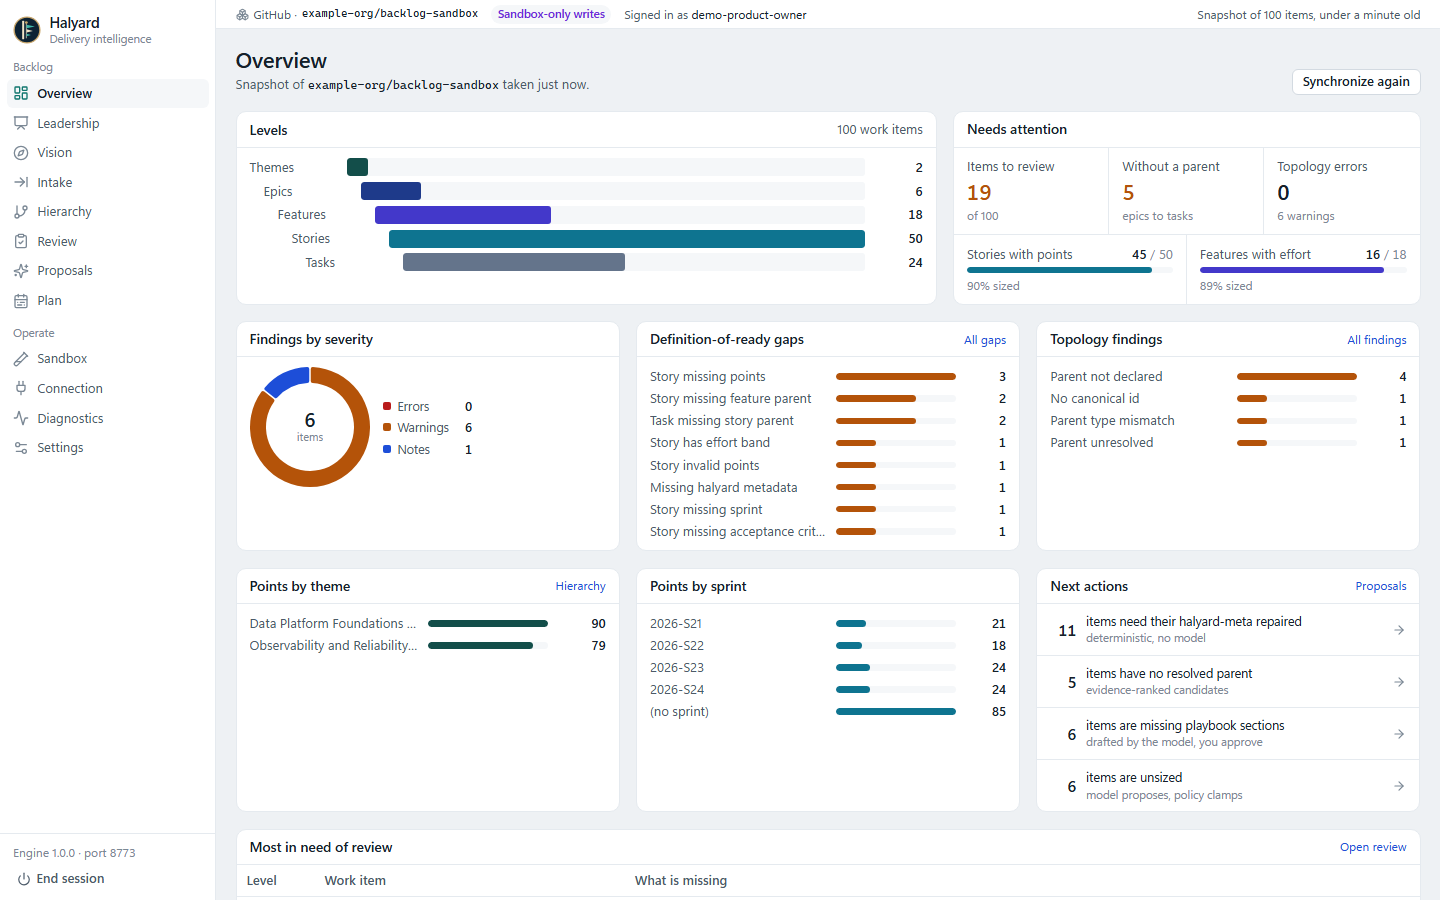
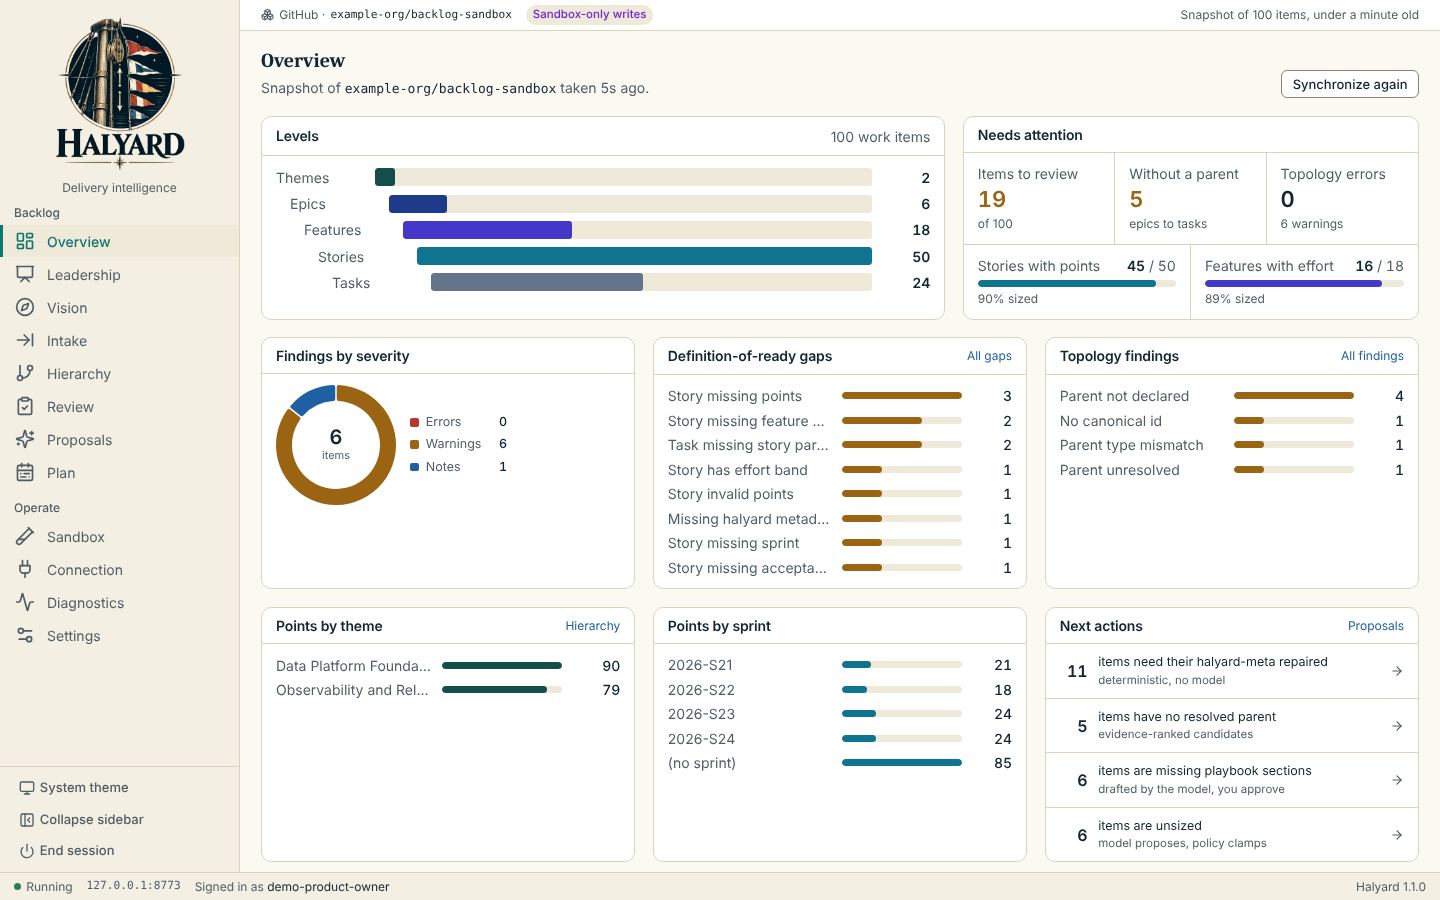
Release 1.1.0: version bump and Fleet-theme README screenshots (#18)
Bumps Halyard.Core <Version>, HalyardHost.Version and the module version to 1.1.0, marks the C# 5 port done, and recaptures the README screenshots (mock data, Fleet theme). Security sign-off for #16 at 68008e8: https://github.com/fleethacker-data-crucible/Halyard/pull/16#issuecomment-6418417395

diff --git a/src/Halyard.Core/Host/HalyardHost.cs b/src/Halyard.Core/Host/HalyardHost.cs
@@ -75,7 +75,7 @@ namespace Halyard.Core.Host
     {
         public const string SessionHeader = "X-Halyard-Session";
         public const string IntentHeader = "X-Halyard-Intent";
-        public const string Version = "1.0.0";
+        public const string Version = "1.1.0";
         private readonly ManualResetEventSlim _stopped = new ManualResetEventSlim(false);
         private readonly object _providerLock = new object();
         private HttpServer _server;

diff --git a/docs/PORT-CSHARP5.md b/docs/PORT-CSHARP5.md
@@ -1,6 +1,12 @@
 # Port plan: Halyard.Core as C# 5 source compiled by Add-Type
 
-Status: in progress on `port/csharp5-source` (2026-10-26).
+Status: done in 1.1.0 (PR #16, merged 2026-10-26).
+
+Result on the self-hosted Windows runner (Windows PowerShell 5.1.26100, CLR 4.0.30319.42000): the 50 engine
+files compile in memory with `Add-Type` in about 0.95 s (944 / 961 / 968 ms in three fresh processes); the
+whole `Import-HalyardCore` takes about 1.2 s. The engine references only mscorlib, System, System.Core and
+System.Net.Http. The serializer's output equals Newtonsoft.Json's on net48 and on net8.0
+(`NewtonsoftParityTests`), and the bundle holds no DLL.
 
 ## Why
 
